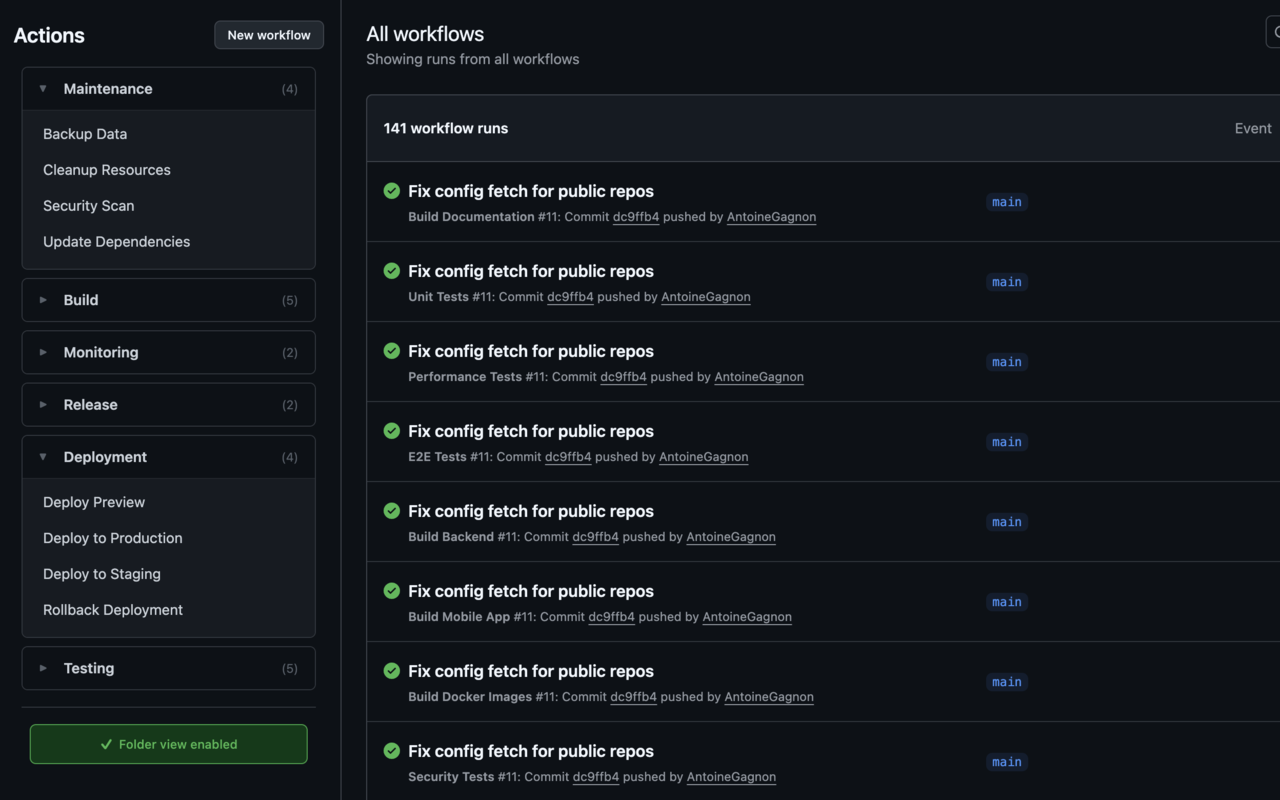
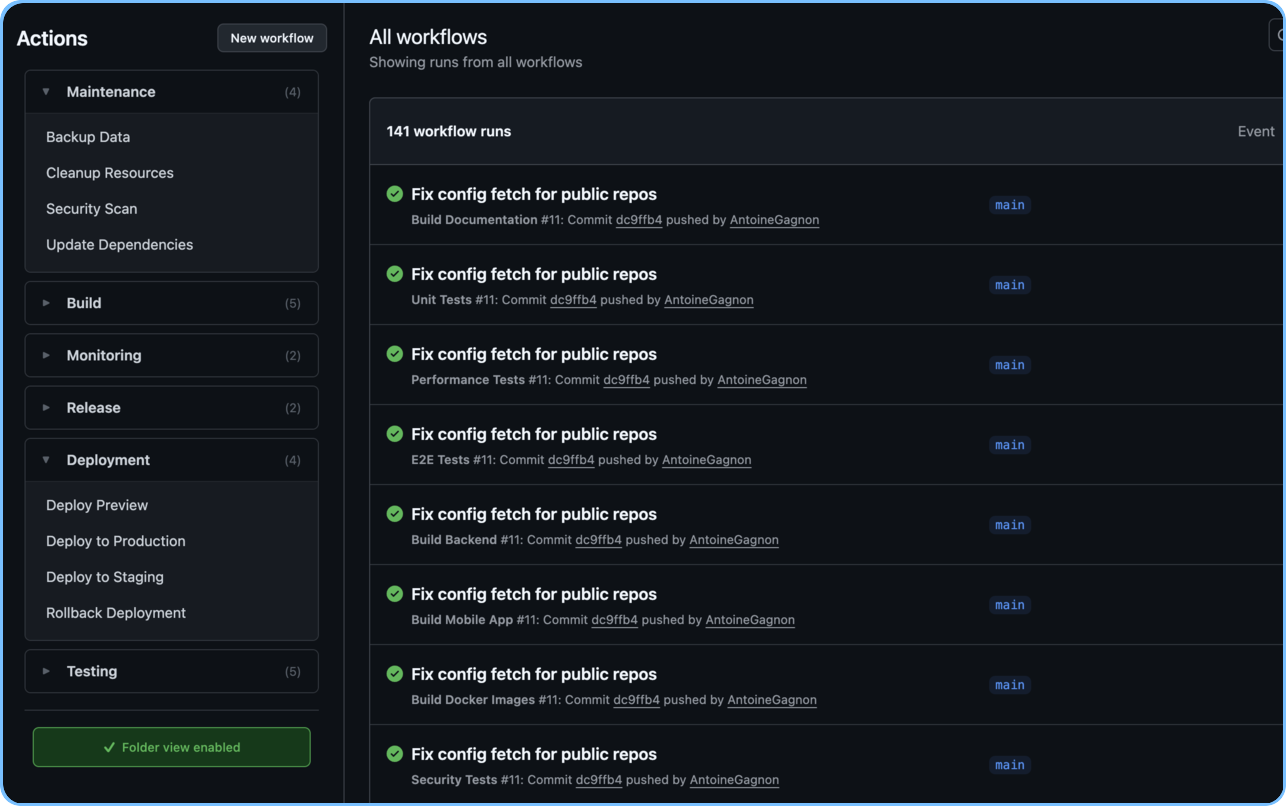
Add badges and improve screenshot styling
- Add version, license, and Chrome extension badges to README
- Add light blue border and rounded corners to screenshot
- Improve visual presentation for GitHub and Chrome Web Store

diff --git a/README.md b/README.md
@@ -1,5 +1,9 @@
 # GitHub Actions Folder Organizer
 
+[![Version](https://img.shields.io/badge/version-1.0.0-blue.svg)](https://github.com/Kurigi/github-folders/releases)
+[![License](https://img.shields.io/badge/license-MIT-green.svg)](LICENSE)
+[![Chrome Web Store](https://img.shields.io/badge/chrome-extension-blue.svg)](https://github.com/Kurigi/github-folders)
+
 Organize your GitHub Actions workflows into custom folders for better project organization. Works seamlessly with GitHub's interface and supports both public and private repositories.
 
 ![Example Screenshot](example.png)
